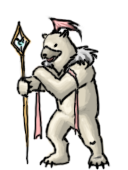
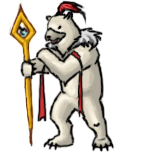
- Animation framework implemented - Bear is now 10% larger - Bear now has an idle animation

diff --git a/src/entities/Sprite.java b/src/entities/Sprite.java
@@ -13,6 +13,7 @@ import org.newdawn.slick.geom.Vector2f;
 
 import states.LevelState;
 import util.Direction;
+import anim.AnimStateMachine;
 
 /**
  * 
@@ -20,19 +21,12 @@ import util.Direction;
  *
  */
 public class Sprite {
-	
-	public enum ImageType { SIMPLE, IMAGE, ANIMATION };
-	
 	/**
 	 * The color of the rectangle displayed if an image or animation is not assigned
 	 */
 	private Color color;
 	private Image image;
-	private Animation anim;
-	/**
-	 * How the sprite will be drawn
-	 */
-	private ImageType imageType;
+	protected AnimStateMachine anim;
 	
 	private float width;
 	private float height;
@@ -46,6 +40,7 @@ public class Sprite {
 	
 	public Sprite(float x, float y, float width, float height, float ground) {
 		position = new Point(x, y);
+		anim = new AnimStateMachine();
 		this.width = width;
 		this.height = height;
 		this.facing = Direction.RIGHT;
@@ -57,7 +52,10 @@ public class Sprite {
 	}
 	
 	public void update(GameContainer gc, int delta) {
-		if (imageType == ImageType.ANIMATION) anim.update(delta);		
+		Animation currentAnim = anim.getCurrentAnimation();
+		if (currentAnim != null) {
+			currentAnim.update(delta);		
+		}
 	}
 	
 	protected void draw(Graphics graphics) {
@@ -65,41 +63,35 @@ public class Sprite {
 		float hh = height / 2;
 		float x = getX();
 		float y = getY();
-		Image img;
 		
-		switch (imageType) {
-			case SIMPLE:
-				graphics.setColor(color);
-				graphics.drawRect(x - hw, y - hh, width, height);
-				// marker to indicate direction of sprite
-				int offset = (facing == Direction.RIGHT) ? 1 : -1;
-				graphics.drawOval(x + offset * hw - 5, y - hh, 10, 10);
-				break;
-			case IMAGE:
+		Animation currentAnim = anim.getCurrentAnimation();
+		if (currentAnim != null || image != null) {
+			Image img;
+			if (currentAnim != null) {
+				img = currentAnim.getCurrentFrame()
+				           .getFlippedCopy(facing == Direction.RIGHT, false);
+			} else {
 				img = image.getFlippedCopy(facing == Direction.RIGHT, false);
-				img.draw(x - hh, y - hh, height + 2*ground, height + 2*ground);
-				break;
-			case ANIMATION:
-				img = anim.getCurrentFrame().getFlippedCopy(facing == Direction.RIGHT, false);
-				img.draw(x - hh, y - hh + ground, height, height + 2*ground);
-				break;
+			}
+			img.draw(x - hh, y - hh, height + 2*ground, height + 2*ground);
+		} else if (color != null) {
+			graphics.setColor(color);
+			graphics.drawRect(x - hw, y - hh, width, height);
+			// marker to indicate direction of sprite
+			int offset = (facing == Direction.RIGHT) ? 1 : -1;
+			graphics.drawOval(x + offset * hw - 5, y - hh, 10, 10);
+			// text to indicate current animation
+			if (anim.getCurrentState() != null)
+				graphics.drawString(anim.getCurrentState().toString(), x - hw, y - hh);
 		}
 	}
 	
-	public void setImage(Color c) {
-		imageType = ImageType.SIMPLE;
+	public void setColor(Color c) {
 		this.color = c;
 	}
 	
 	public void setImage(Image i) {
-		imageType = ImageType.IMAGE;
 		this.image = i;
-	}
-	
-	public void setImage(Animation a) {
-		imageType = ImageType.ANIMATION;
-		this.anim = a;
-		this.anim.setAutoUpdate(false);
 	}
 
 	/**

diff --git a/src/entities/Entity.java b/src/entities/Entity.java
@@ -15,7 +15,10 @@ import org.jbox2d.dynamics.Fixture;
 import org.jbox2d.dynamics.FixtureDef;
 import org.jbox2d.dynamics.World;
 import org.jbox2d.dynamics.contacts.ContactEdge;
+import org.newdawn.slick.GameContainer;
 import org.newdawn.slick.geom.Point;
+
+import anim.AnimationState;
 
 import util.Direction;
 import util.Util;
@@ -85,8 +88,16 @@ public abstract class Entity extends Sprite {
 		this.hp = maxHp;
 		this.alive = true;
 	}
-
 	
+	/* (non-Javadoc)
+	 * @see entities.Sprite#update(org.newdawn.slick.GameContainer, int)
+	 */
+	@Override
+	public void update(GameContainer gc, int delta) {
+		super.update(gc, delta);
+		anim.update(this);
+	}
+
 	public void moveLeft() {
 		if (this.isTouching(Direction.DOWN)) {
 			if (this.getFacing() == Direction.LEFT) {
@@ -100,6 +111,7 @@ public abstract class Entity extends Sprite {
 		} else {
 			this.getPhysicsBody().applyForce(new Vec2(-runSpeed, 0), Util.PointToVec2(this.getPosition()));
 		}
+		anim.play(AnimationState.RUN);
 	}
 	
 	public void moveRight() {
@@ -115,6 +127,7 @@ public abstract class Entity extends Sprite {
 		} else {
 			this.getPhysicsBody().applyForce(new Vec2(runSpeed, 0), Util.PointToVec2(this.getPosition()));
 		}
+		anim.play(AnimationState.RUN);
 	}
 	
 	public void jump() {
@@ -122,11 +135,15 @@ public abstract class Entity extends Sprite {
 			float xvel = this.getPhysicsBody().getLinearVelocity().x;
 			this.getPhysicsBody().applyLinearImpulse(new Vec2(0, -Config.PLAYER_JUMP_SPEED), new Vec2(0, 0));
 		}
+		anim.play(AnimationState.JUMP);
 	}
 	
 	public void dampenVelocity(int delta) {
 		Vec2 vel = this.getPhysicsBody().getLinearVelocity();
 		this.getPhysicsBody().setLinearVelocity(new Vec2((float) (vel.x * Math.pow(Config.DRAG, delta/100f)), vel.y));
+		if (this.isTouching(Direction.DOWN)) {
+			anim.play(AnimationState.IDLE);
+		}
 	}
 	
 	public void addToWorld(World world) {

diff --git a/src/anim/AnimStateMachine.java b/src/anim/AnimStateMachine.java
@@ -1,0 +1,75 @@
+/**
+ * 
+ */
+package anim;
+
+import java.util.EnumMap;
+
+import org.newdawn.slick.Animation;
+
+import util.Direction;
+
+import entities.Entity;
+
+
+/**
+ * A state machine for handling animation transitions
+ * @author Mullings
+ *
+ */
+public class AnimStateMachine {
+	private EnumMap<AnimationState, Animation> animMap;
+	private AnimationState currentState;
+
+	public AnimStateMachine() {
+		animMap = new EnumMap<AnimationState, Animation>(AnimationState.class);
+	}
+	
+	public void addAnimation(AnimationState type, Animation animation) {
+		animMap.put(type, animation);
+	}
+	
+	public void update(Entity entity) {
+		if (currentState == null) return;
+		switch(currentState) {
+			case JUMP:
+				if (entity.getPhysicsBody().getLinearVelocity().y >= 0) {
+					play(AnimationState.FALL);
+//					System.out.println("JUMP => FALL");
+				}
+				break;
+			case FALL:
+				if (entity.isTouching(Direction.DOWN)) {
+					play(AnimationState.IDLE);
+//					System.out.println("FALL => IDLE");
+				}
+				break;
+			case IDLE:
+			case RUN:
+				if (!entity.isTouching(Direction.DOWN)) {
+					play(AnimationState.FALL);
+//					System.out.println("IDLE/RUN => FALL");
+				}
+				break;
+		}
+	}
+	
+	public boolean play(AnimationState state) {
+		if (currentState == null || currentState.canChangeTo(state)) {
+			currentState = state;
+			return true;
+		}
+		return false;
+	}
+
+	public AnimationState getCurrentState() {
+		return currentState;
+	}
+
+	public Animation getCurrentAnimation() {
+		if (currentState != null)
+			return animMap.get(currentState);
+		return null;
+	}
+	
+}

diff --git a/src/entities/Player.java b/src/entities/Player.java
@@ -6,11 +6,16 @@ package entities;
 import items.Hookshot;
 import items.ItemBase;
 
+import org.newdawn.slick.Animation;
 import org.newdawn.slick.Color;
 import org.newdawn.slick.GameContainer;
 import org.newdawn.slick.Graphics;
 import org.newdawn.slick.Image;
 import org.newdawn.slick.Input;
+import org.newdawn.slick.SlickException;
+import org.newdawn.slick.SpriteSheet;
+
+import anim.AnimationState;
 
 import config.Config;
 
@@ -27,12 +32,13 @@ public class Player extends Entity {
 	
 	public Player(float width, float height, float ground) {
 		super(0, 0, width, height, ground, Config.PLAYER_MOVE_SPEED, Config.PLAYER_JUMP_SPEED, Config.PLAYER_MAX_HP);
-		
+
 		try {
-			setImage(new Image("assets/images/player.png"));
+			setImage(new Image("assets/images/bear shaman.png"));
+			anim.addAnimation(AnimationState.IDLE, new Animation(new SpriteSheet("assets/images/bear shaman idle sprite sheet.png", 152, 152), 100));
 		} catch (Exception e) {
 			e.printStackTrace();
-			setImage(Color.white);
+			setColor(Color.white);
 		}
 		
 		getPhysicsBodyDef().allowSleep = false;

diff --git a/src/anim/AnimationState.java b/src/anim/AnimationState.java
@@ -1,0 +1,35 @@
+/**
+ * 
+ */
+package anim;
+
+import java.util.EnumSet;
+
+/**
+ * An enumeration of all of the animations in the game, as well as their transitions
+ * @author Mullings
+ *
+ */
+public enum AnimationState {
+	IDLE, RUN, JUMP, FALL;
+	
+	private EnumSet<AnimationState> prohibited;
+	
+	private void prohibitTransitions(AnimationState... prohibitedTransitions) {
+		prohibited = EnumSet.noneOf(AnimationState.class);
+		for (AnimationState t : prohibitedTransitions) {
+			prohibited.add(t);
+		}
+	}
+	
+	public boolean canChangeTo(AnimationState state) {
+		return !prohibited.contains(state);
+	}
+	
+	static {
+		IDLE.prohibitTransitions();
+		RUN.prohibitTransitions();
+		JUMP.prohibitTransitions(IDLE, RUN);
+		FALL.prohibitTransitions(RUN);
+	}
+}

diff --git a/src/entities/enemies/Enemy.java b/src/entities/enemies/Enemy.java
@@ -25,13 +25,13 @@ public class Enemy extends Entity {
 	public Enemy(float x, float y, float width, float height, float runSpeed, float jmpSpeed, int maxHp, AI ai) {
 		super(x, y, width, height, runSpeed, jmpSpeed, maxHp);
 		this.ai = ai;
-		setImage(Color.red);
+		setColor(Color.red);
 	}
 	
 	public Enemy(float x, float y, float width, float height, float ground, float runSpeed, float jmpSpeed, int maxHp, AI ai) {
 		super(x, y, width, height, ground, runSpeed, jmpSpeed, maxHp);
 		this.ai = ai;
-		setImage(Color.red);
+		setColor(Color.red);
 	}
 	
 	@Override

diff --git a/src/states/LevelState.java b/src/states/LevelState.java
@@ -131,6 +131,7 @@ public class LevelState extends BasicGameState{
 		cursor.render(graphics);
 		
 		// timer draw
+		// HACK: remove once there's a parallax system
 		graphics.setColor(Color.white);
 		graphics.drawString(timer.getTimeString(), camera.getPosition().getMinX()+100, camera.getPosition().getMinY()+100);
 

diff --git a/src/main/MainGame.java b/src/main/MainGame.java
@@ -58,7 +58,7 @@ public class MainGame extends StateBasedGame {
 
 	@Override
 	public void initStatesList(GameContainer gc) throws SlickException {
-		player = new Player(32, 72, 4);
+		player = new Player(36, 80, 4);
 		addState(new LevelState("assets/maps/longMap.tmx", "assets/backgrounds/forest3.png", 0));
 	}
 

diff --git a/src/items/Hook.java b/src/items/Hook.java
@@ -24,7 +24,7 @@ public class Hook extends Entity {
 	 */
 	public Hook(float x, float y) {
 		super(x, y, SIZE, SIZE, 0, 0, 1);
-		setImage(Color.red);
+		setColor(Color.red);
 		getPhysicsBodyDef().bullet = true;
 		attached = false;
 	}
